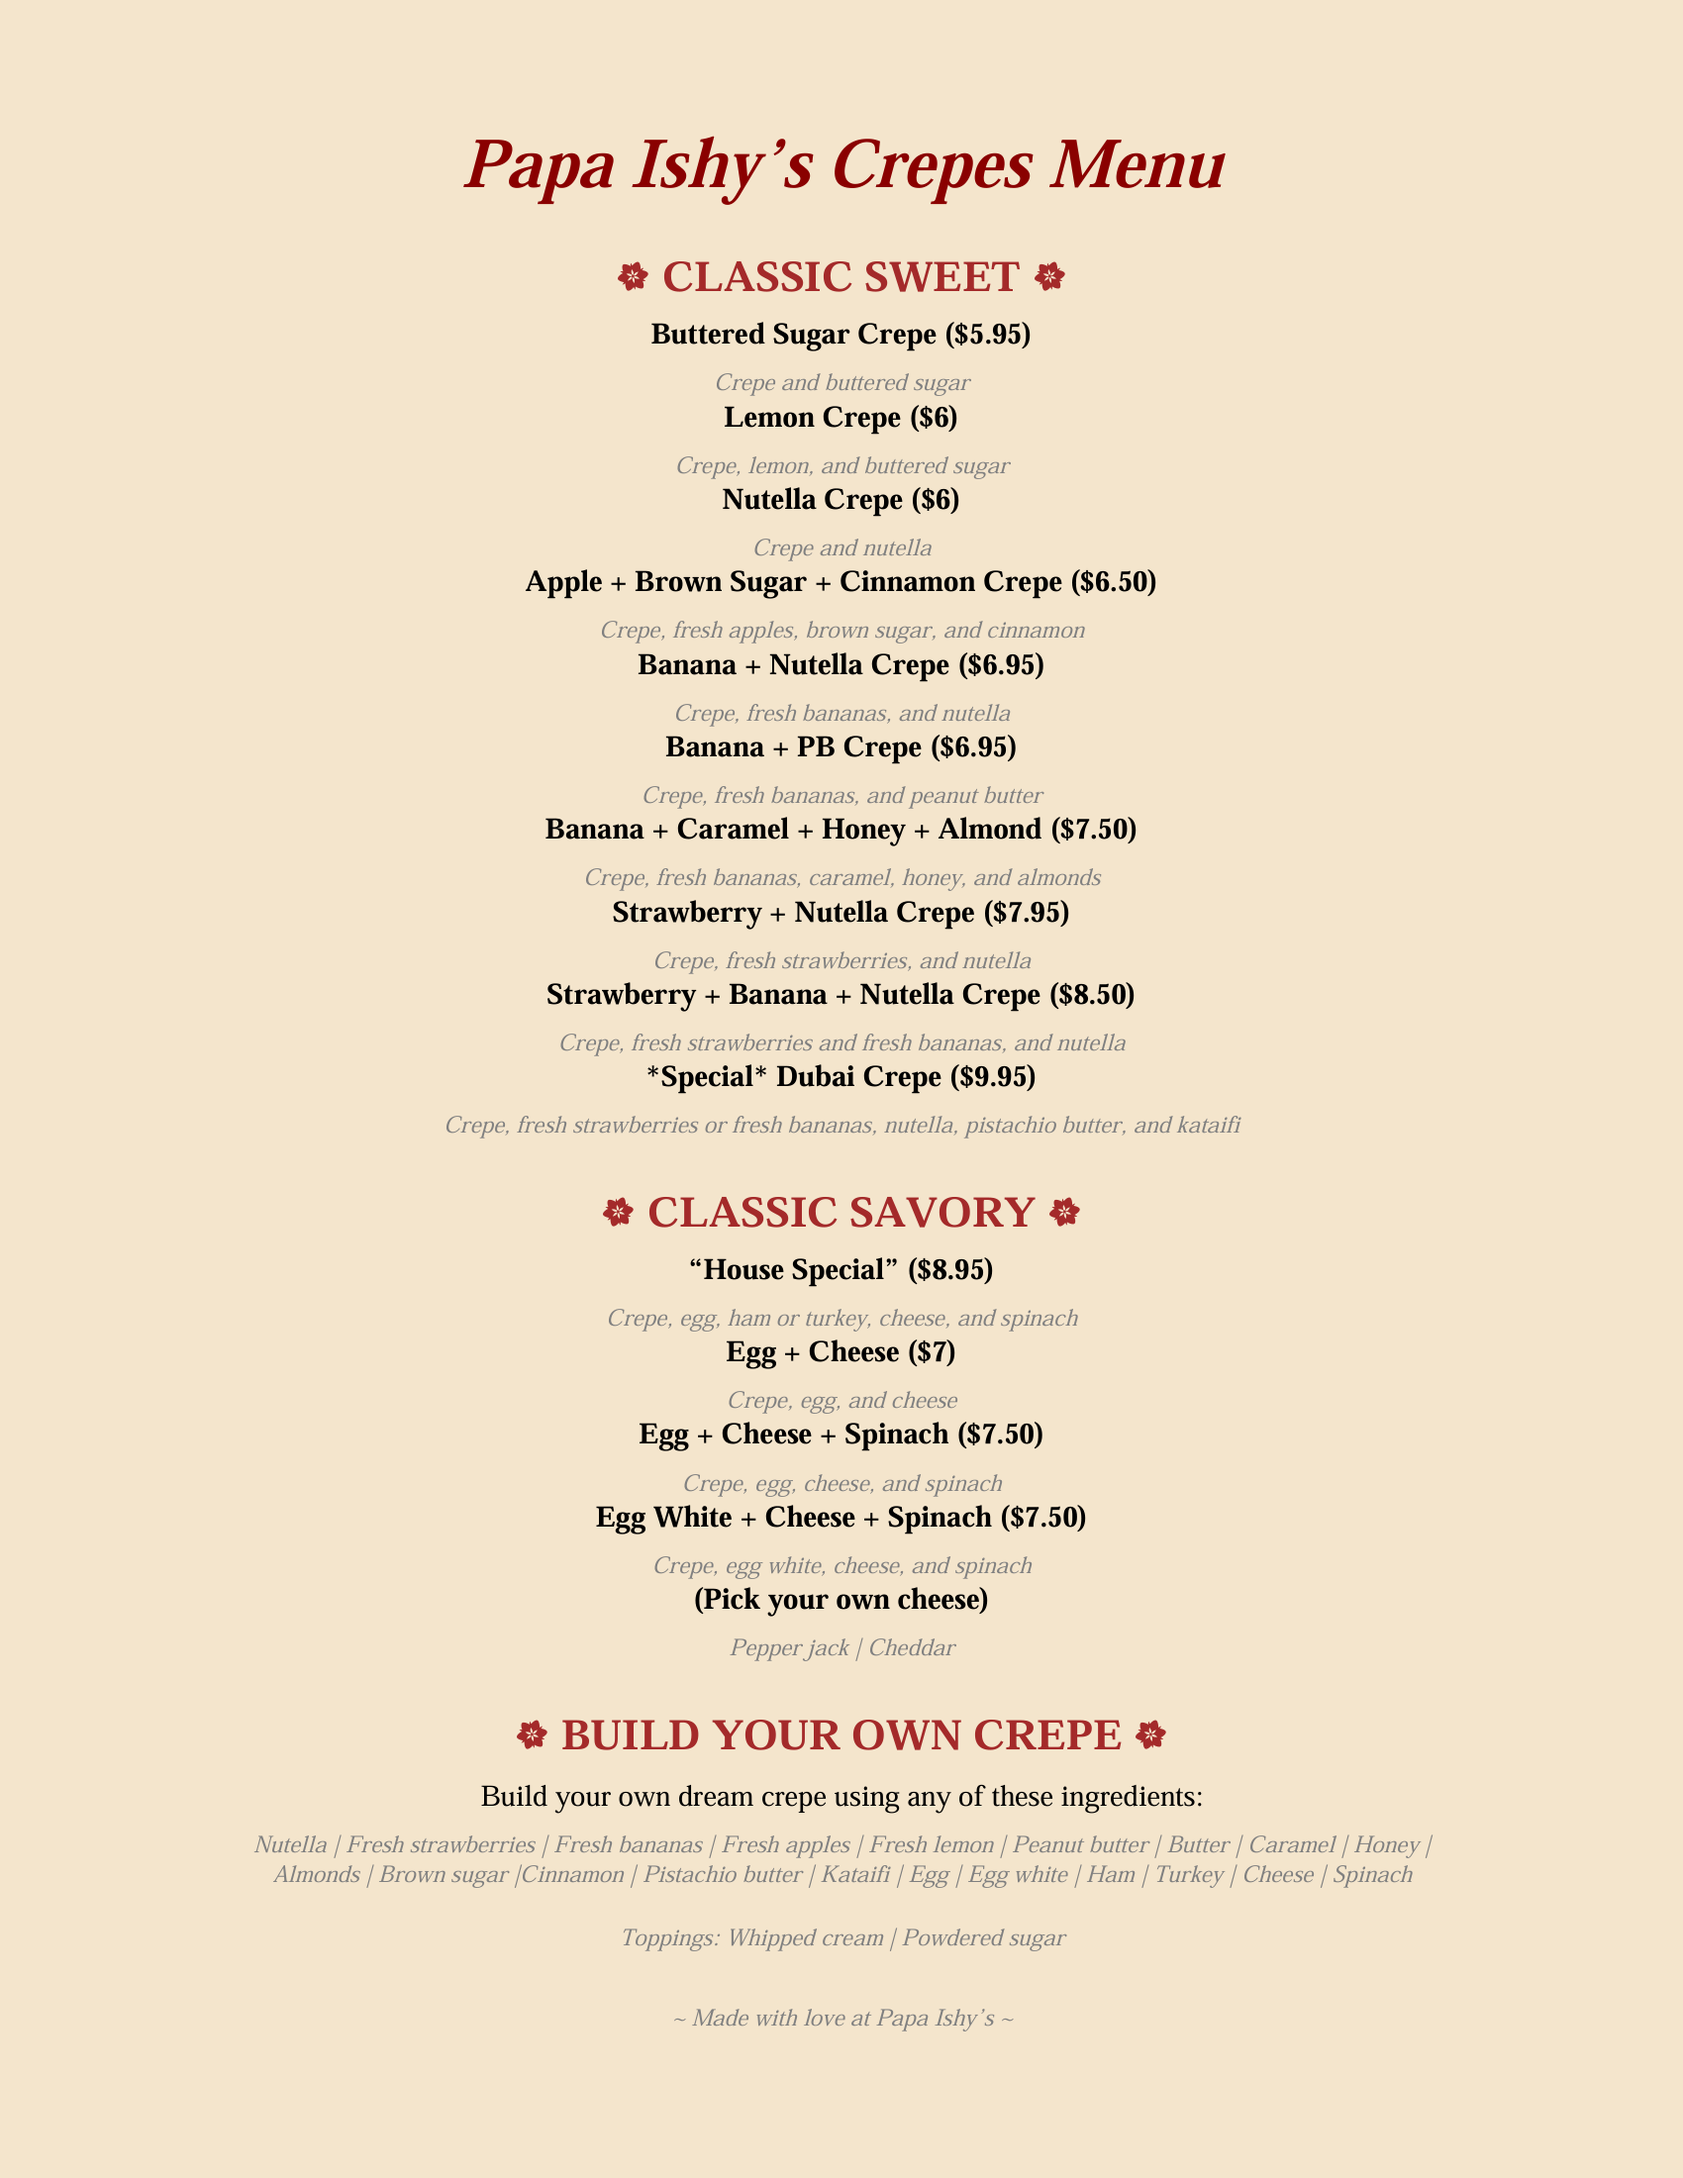
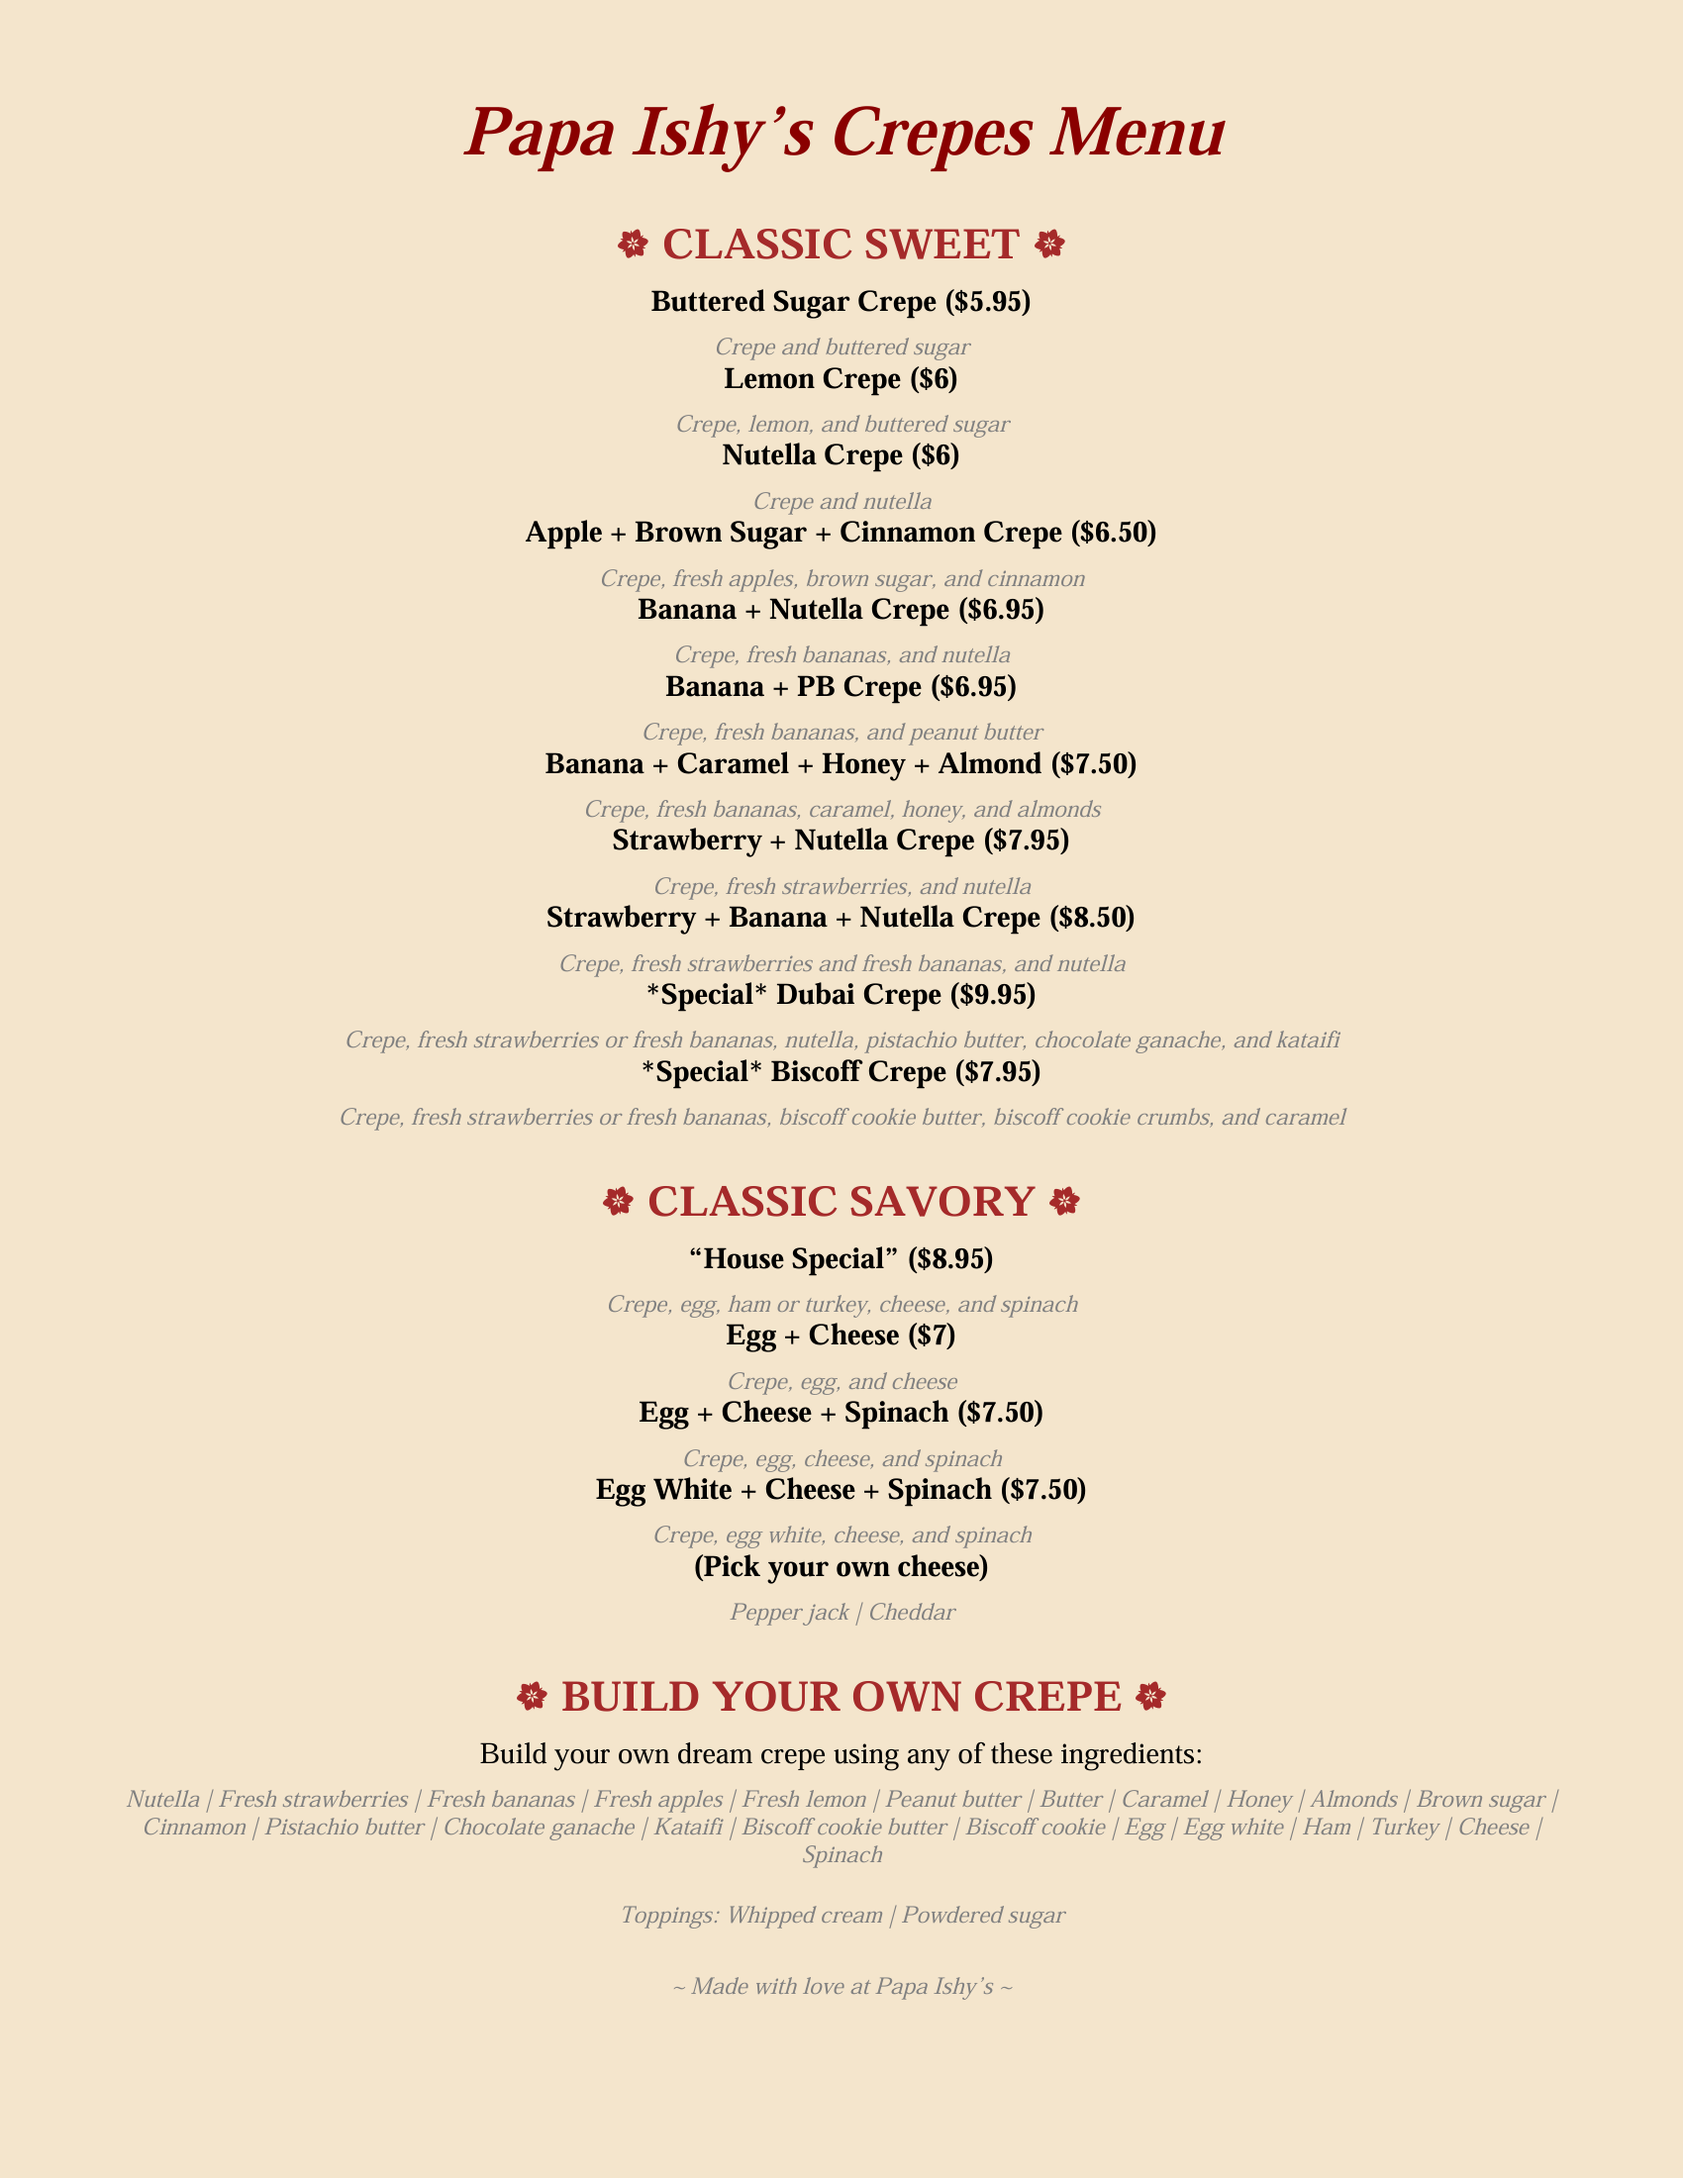
Update biscoff.jpeg, ishyscrepesmenu.pdf and three other files

Changed region(s): [[0.1559, 0.0309, 0.8418, 0.9273]]

diff --git a/menu/index.html b/menu/index.html
@@ -390,6 +390,7 @@
       </div>
       <div class="examples-dropdown" id="examplesDropdown">
         <img src="/attached_assets/examples/strawnut.jpeg" alt="Strawnut Crepe Example" class="example-image">
+        <img src="/attached_assets/examples/biscoff.jpeg" alt="Biscoff Crepe Example" class="example-image">
         <img src="/attached_assets/examples/dubai.jpeg" alt="Dubai Crepe Example" class="example-image">
         <img src="/attached_assets/examples/dubai2.jpeg" alt="Dubai Crepe Example 2" class="example-image">
         <img src="/attached_assets/examples/almondhoney.jpeg" alt="Almond Honey Crepe Example" class="example-image">

diff --git a/how-to-order/index.html b/how-to-order/index.html
@@ -453,7 +453,7 @@
   <div id="content-container" class="rectangles-container" style="z-index: 2;">
     <div class="unavailable-rectangle">
       <p class="unavailable-text">
-        Available to order until 9pm!
+        Available to pre-order for 10/25-10/26!
       </p>
     </div>
     
